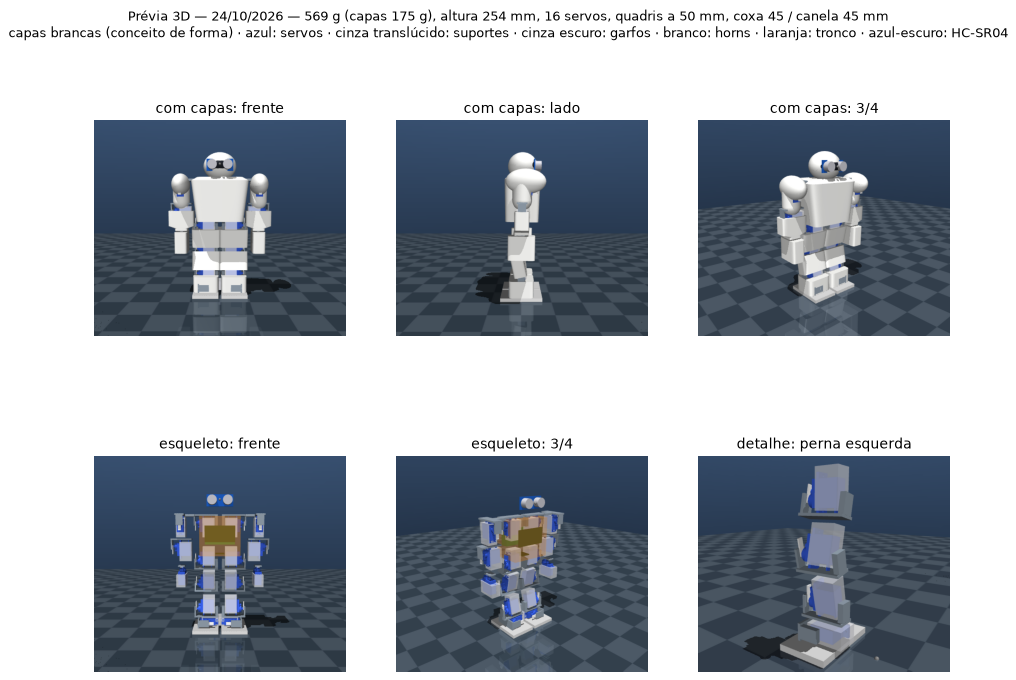
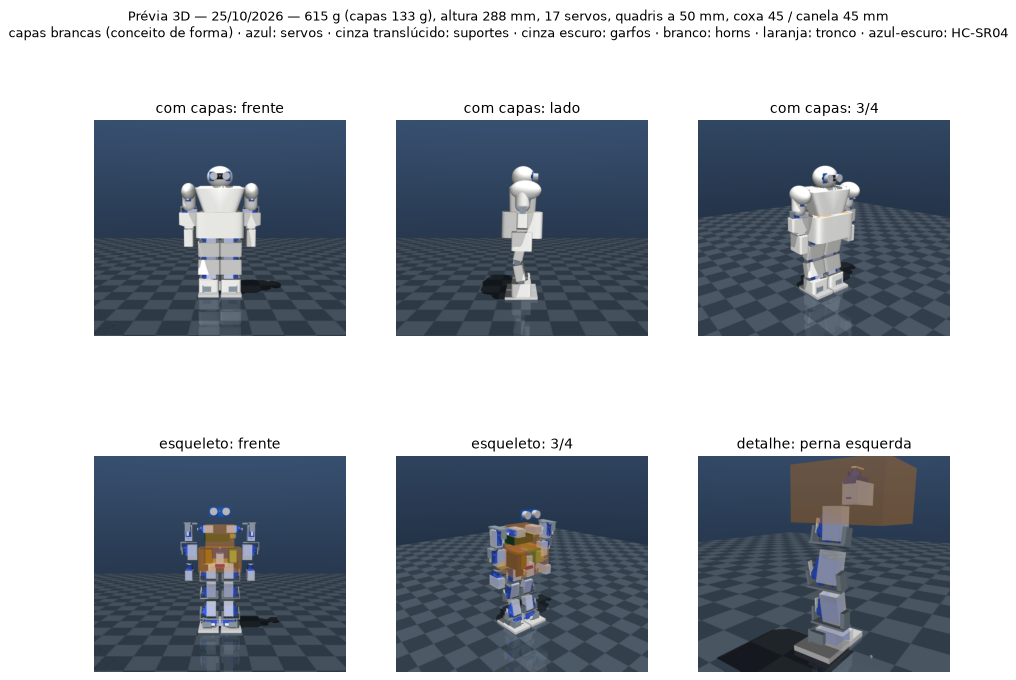
feat: V torso (variant B), re-simulated numbers and refreshed preview
- Torso 50 x 62 x 50 mm with 96 mm shoulders: cover chest/waist 1.52, in the
  range of the user's reference silhouettes; ESP32 re-placed in TORSO_LAYOUT
- 615 g, 288 mm: one-leg stance 66 %, rise at 1 rad/s knee 79 %; open-loop
  rocking now shifts the weight only with +-9 deg roll, so rocking_test and
  current_budget default to 9 deg
- Docs: new numbers in simulacao.md / arquitetura_corpo.md, stale masses and
  dimensions synced, preview image and history line, correction plan updated

diff --git a/sim/tools/body.py b/sim/tools/body.py
@@ -121,7 +121,7 @@ BODY_PARTS = {
 WIRING_G = {"torso": 3.0, "pelvis": 6.0}   # power leads, I2C, signals (servo cables count with the servos)
 # name -> (centre xyz mm in the torso frame, rotation: rows = torso axes, columns = part length/width/thickness)
 TORSO_LAYOUT = {                 # torso_layout.py --search, 2026-10-25
-    "controle": ((-5.0, 9.0, -10.5), ((0, 1, 0), (1, 0, 0), (0, 0, -1))),
+    "controle": ((-6.0, -6.0, -4.0), ((0, 1, 0), (-1, 0, 0), (0, 0, 1))),
 }
 PELVIS_LAYOUT = {                # torso_layout.py --seat pelvis --search, 2026-10-25
     "pca9685": ((-30.0, -13.0, 11.0), ((0, 0, 1), (-1, 0, 0), (0, -1, 0))),
@@ -166,10 +166,11 @@ class BipedParams:
     # 86 mm at the shoulders, big head -> head / torso / legs = 20 / 31 / 50 % of 254 mm
     # 2026-10-25: 76 deep and 78 at the hips (was 50 x 70) so the electronics fit between the 4 torso
     # servos (sim/tools/torso_layout.py); a mild V from the shoulders down, chosen by the user
-    # 2026-10-25: 50 x 78 x 45 once the electronics went to the pelvis (only the ESP32 and the shoulder
-    # servos stay); the V shape is still open (docs/plano_correcoes_tronco.md 0.2)
-    torso_size_mm: tuple = (50.0, 78.0, 45.0)
-    torso_top_width_mm: float = 86.0  # frame width at the shoulders
+    # 2026-10-25 (user, variant B): V torso — 62 at the waist, 96 at the shoulders, 50 tall: cover chest
+    # / waist = 1.52 (the user's reference silhouettes: 1.5-2.1); only the ESP32 and the shoulder servos
+    # ride inside (the electronics went to the pelvis); 50 tall is the least where the ESP32 fits
+    torso_size_mm: tuple = (50.0, 62.0, 50.0)
+    torso_top_width_mm: float = 96.0  # frame width at the shoulders
     shoulder_pitch_body: str = "front"  # shoulder pitch servo body lies "back" / "front" / "down" from its shaft
     torso_struct_g_per_cm2: float = 25.0 / 178.0   # frame plates: 25 g on a 50 x 70 x 45 mm frame (scaled by area)
 

diff --git a/sim/tools/current_budget.py b/sim/tools/current_budget.py
@@ -86,7 +86,7 @@ def stats(load: np.ndarray, dt: float, n: int, i_stall: float):
 def main():
     ap = argparse.ArgumentParser(description=__doc__, formatter_class=argparse.RawDescriptionHelpFormatter)
     ap.add_argument("--model", default="f1")
-    ap.add_argument("--tilt", type=float, default=12.0, help="ankle roll amplitude while rocking, degrees")
+    ap.add_argument("--tilt", type=float, default=9.0, help="ankle roll amplitude while rocking, degrees")
     args = ap.parse_args()
     m = mujoco.MjModel.from_xml_path(str(MODELS.get(args.model, args.model)))
     n, dt = m.nu, m.opt.timestep
@@ -104,7 +104,7 @@ def main():
               + "   ".join(" / ".join(f"{c[k]:4.1f}" for c in cols) for k in range(3)))
     print("\n  carga = soma de |torque| / stall nos servos, no pico (quantos servos travados equivale)")
     print("\nNÃO SIMULADO (conta):")
-    for name, servos, amps in (("ligar: os 16 vão à 1ª posição juntos", n, I_STALL_A),
+    for name, servos, amps in ((f"ligar: os {n} vão à 1ª posição juntos", n, I_STALL_A),
                                ("queda ou trava: as 8 juntas da perna no stall", 8, I_STALL_A),
                                ("gesto: 8 servos do braço movendo juntos, sem carga", 8, (I_MOVE_A,) * 3)):
         total = [servos * a + (n - servos) * I_IDLE_A for a in amps]

diff --git a/sim/tools/rocking_test.py b/sim/tools/rocking_test.py
@@ -1,6 +1,6 @@
 """Lateral rocking test: shift the body from one foot to the other at walking pace (open loop).
 
-    .venv/bin/python sim/tools/rocking_test.py [--model f1] [--tilt 12] [--cycles 4] [--arm 60]
+    .venv/bin/python sim/tools/rocking_test.py [--model f1] [--tilt 9] [--cycles 4] [--arm 60]
 
 With no hip roll, the weight moves sideways by tilting the whole body over the stance foot with
 both ankle rolls (feet kept parallel to the floor). One cycle = shift onto the left foot, lift and
@@ -88,7 +88,7 @@ def run(m, period: float, roll_max: float, cycles: int, arm: float = 0.0, arm_si
 def main():
     ap = argparse.ArgumentParser(description=__doc__, formatter_class=argparse.RawDescriptionHelpFormatter)
     ap.add_argument("--model", default="f1")
-    ap.add_argument("--tilt", type=float, default=12.0, help="ankle roll amplitude, degrees")
+    ap.add_argument("--tilt", type=float, default=9.0, help="ankle roll amplitude, degrees (9: the 615 g robot shifts and lifts the foot)")
     ap.add_argument("--arm", type=float, default=0.0, help="arm opening, degrees")
     ap.add_argument("--arm-side", choices=("free", "stance"), default="free", help="which arm opens")
     ap.add_argument("--cycles", type=int, default=4)

diff --git a/docs/plano_correcoes_tronco.md b/docs/plano_correcoes_tronco.md
@@ -45,8 +45,7 @@ depois espera por elas. Ao terminar, os itens que sobrarem viram linhas no [back
 - [x] Decidir o regulador e o fusível que acompanha — 25/10: D24V150F5 nos servos, D24V10F5 na lógica, fusível 7,5 A retardado **(você)**
 - [x] Registrar a decisão com o motivo: `lista_materiais.md`, `body.py` (`TORSO_PARTS["regulador"]`:
       medidas, massa, fonte) e backlog §1 **(Claude)**
-- [ ] Confirmar na bancada da F3 a corrente real de stall do clone. Se passar da margem, voltar a esta
-      seção **(você)**
+- [x] ~~Confirmar na bancada da F3 a corrente real de stall do clone~~ → movido para o backlog (F3), depende de hardware **(você)**
 
 ### 0.2 Tronco em V suave (silhueta masculina)
 
@@ -54,7 +53,7 @@ depois espera por elas. Ao terminar, os itens que sobrarem viram linhas no [back
       (`docs/img/silhueta01–06.png`, medidas em 25/10; ver abaixo) **(Claude)**
 
 **Métrica (25/10).** Vista de frente, robô de pé, com as capas. Medida por renderização de
-segmentação, quase ortográfica (o script vai para `sim/tools/` na etapa das variantes). Larguras:
+segmentação, quase ortográfica; nas variantes, calculada direto das formas das capas (`body.shells`). Larguras:
 
 - **ombros:** largura externa total na altura dos ombros (ombreiras e braços);
 - **peito:** capa do tronco na altura das axilas, sem os braços;
@@ -82,11 +81,11 @@ não vai para o repositório porque as referências têm marca d'água).
 
 Todas as referências são de frente: o perfil lateral (peito ÷ barriga) não tem referência e fica a
 critério visual.
-- [ ] Gerar 3 ou 4 variantes renderizadas de frente e de lado, centradas em afinar a cintura (M1 ≥ 1,5):
+- [x] Gerar 3 ou 4 variantes renderizadas de frente e de lado — 25/10, com o tronco novo (só o ESP32 dentro). O ESP32 só cabe com cintura fina se o peito alargar (base 62, ombros 96) e o tronco tiver ≥ 50 mm; variantes A (hoje), B (V, 50 mm), C (V, 55 mm), D (V, 65 mm). Pedido original:
       cintura fina com o tronco mais fundo ou mais alto, e peito um pouco mais largo com cintura média. Para cada uma: se a eletrônica cabe
       (`torso_layout.py --search`), massa, picos do `rocking_test` e folga do braço até a perna **(Claude)**
-- [ ] Escolher a variante **(você)**
-- [ ] Aplicar em `BipedParams`. Se a escolhida afinar a profundidade de cima para baixo, isso precisa
+- [x] Escolher a variante — 25/10: **B** (V, tronco 50 mm) **(você)**
+- [x] Aplicar em `BipedParams` — feito em 25/10 (tronco 50 × 62 × 50, ombros 96; ESP32 recolocado no `TORSO_LAYOUT`). Se a escolhida afinar a profundidade de cima para baixo, isso precisa
       de um parâmetro novo no `body.py` (hoje só a largura afina) **(Claude)**
 
 Limites que as variantes têm de respeitar:
@@ -99,7 +98,7 @@ Limites que as variantes têm de respeitar:
 
 ### 0.3 Posição da bateria
 
-- [ ] ~~Tronco~~ Quadril: escrever a preferência da bateria em `score()` (a bateria foi para o quadril em 25/10; vale para o layout do quadril) (`sim/tools/torso_layout.py`, `TODO(human)`),
+- [x] ~~Tronco~~ Quadril: escrever a preferência da bateria em `score()` — 25/10: atrás e embaixo (`2·x + z`), pela gaveta traseira que você decidiu; o layout do quadril já usa (a bateria foi para o quadril em 25/10; vale para o layout do quadril) (`sim/tools/torso_layout.py`, `TODO(human)`),
       já com as medidas da 0.2 **(você)**. Trade-offs:
       - **Bateria baixa:** centro de massa mais baixo, menos torque no tornozelo roll e no joelho ao
         inclinar. Em compensação o pêndulo fica mais rápido, e o acesso ao conector de carga é pior.
@@ -122,30 +121,33 @@ Limites que as variantes têm de respeitar:
 
 ## Fase 2 — Re-simular e registrar
 
-- [ ] Rodar de novo `build_biped.py`, `f1_experiments.py`, `rocking_test.py` e `f2_sweep.py --quick`
+- [x] Rodar de novo `build_biped.py`, `f1_experiments.py`, `rocking_test.py` e `f2_sweep.py --quick` — 25/10; `--tilt` padrão passou a 9° (12° derruba o robô de 615 g)
       com o tronco final, e conferir que o `f1_biped.xml` regenerado é o que vai no commit **(Claude)**
-- [ ] Registrar os números novos (massa, picos, inclinação) em `simulacao.md` e
+- [x] Registrar os números novos (massa, picos, inclinação) em `simulacao.md` e
       `arquitetura_corpo.md`, com a comparação antes/depois **(Claude)**
 - [ ] Rever o gatilho dos 8 DOF com os números novos: a inclinação a 1 passo/s passou de 20°, mas o
       ritmo de projeto é ~0,67 passo/s. Decidir se o gatilho vale para o ritmo de projeto ou para
       1 passo/s, e escrever isso no backlog **(juntos)**
+      Recomendação (25/10): o gatilho vale no ritmo de projeto (0,67 passo/s). Lá a inclinação é 14° e o
+      tornozelo roll 56 %, então não dispara; o limite agora é o joelho (79 %), não o roll.
 
 ## Fase 3 — Prévia e documentos
 
-- [ ] `make preview`, linha nova no histórico de `previa.md` e imagem commitada **(Claude)**
-- [ ] Sincronizar os números defasados **(Claude)**:
+- [x] `make preview`, linha nova no histórico de `previa.md` e imagem — 25/10 **(Claude)**
+- [x] Sincronizar os números defasados (25/10) **(Claude)**:
       - "569 g": `CLAUDE.md`, `lista_materiais.md`, `arquitetura_perna.md`, `tutorial_mujoco.md`
-      - "12 juntas" no backlog (são 16)
-      - "quadris 45 mm, pé 40 × 70" em `backlog.md` (F2) e `simulacao.md` (agora 50 mm e 45 × 70,
-        revistos pelo conceito do suporte)
-      - "UBEC" em `arquitetura_corpo.md`, no backlog (§1 e §5) e no `CLAUDE.md`, conforme a decisão 0.1
+      - ~~"12 juntas" no backlog~~ (feito em 25/10)
+      - ~~"quadris 45 mm, pé 40 × 70" em `backlog.md` e `simulacao.md`~~ (feito em 25/10)
+      - ~~"UBEC" em `arquitetura_corpo.md`, backlog e `CLAUDE.md`~~ (feito com a decisão 0.1)
       - tamanho do tronco e V no `CLAUDE.md` e em `arquitetura_corpo.md`
 - [ ] Backlog §3.1 "Orçamento de massa das capas": decidir se o cálculo pela forma (`body.py`) fecha o
       item ou se ele só fecha na F4, com a massa das peças reais **(juntos)**
+      Recomendação (25/10): o orçamento pela forma (133 g com 0,8 mm) vale como orçamento; o item fecha na F4,
+      conferindo na balança.
 
 ## Fase 4 — Entrega
 
-- [ ] Revisão do diff inteiro (código + docs) **(Claude)**
+- [x] Revisão do diff inteiro (código + docs) — 25/10 **(Claude)**
 - [ ] Commit e PR do branch `feat/torso-packaging`, depois do seu OK **(Claude)**
 
 ## Em paralelo — caminho crítico da mecânica (não depende deste plano)

diff --git a/CLAUDE.md b/CLAUDE.md
@@ -4,7 +4,7 @@ This file provides guidance to Claude Code (claude.ai/code) when working with co
 
 ## Project
 
-Learning-focused biped robot: SG90-clone servos, ESP32, MPU-6050 for balance. 16 servos: 8 in the legs + 4 per arm (shoulder pitch, shoulder roll, elbow, wrist rotation; fixed hand; each servo inside the segment it moves; PWM through a PCA9685), plus a fixed head with an HC-SR04 ultrasonic and a 10 g reserve for a future camera (separate ESP32-CAM); Body split 2026-10-25 (user): a pelvis (2 hip pitch servos + the waist yaw servo, battery, regulators, IMU, a PCA9685 for the 8 leg servos + waist) and a torso turning ±45° on it (waist yaw, 17th SG90; the ESP32 drives the 8 arm servos directly by LEDC); only the servo rail, logic 5 V and I2C cross the waist — `body.BODY_PARTS` seats. LiPo 2S ~55 g; servo rail on a Pololu D24V150F5 (5 V, 15 A) and logic (ESP32, PCA9685 logic, sensors) on a separate D24V10F5 straight from the battery, 7.5 A slow-blow fuse, staggered servo power-on in firmware — user decision 2026-10-25, budget in `docs/alimentacao.md`. Proportions approved 2026-10-24 (UBTECH Alpha 1 look, SG90 everywhere): torso 68 mm tall, 86 mm at the shoulders, head 52 × 58 × 48 mm, covers 1.2 mm (cover wall cut to 0.8 mm on 2026-10-25 to lower the torques) → 254 mm tall; with the 4-servo arms and nearly square covers (`cover_corner_n` = 8, chosen by the user) 569 g (175 g covers), shoulders 18.2 cm; comfortable pace up to ~0.67 step/s, rise at ≤ 0.7 rad/s; 1 step/s fails on the ankle roll. Per leg: hip pitch, knee pitch, ankle pitch, ankle roll (no hip yaw — turning only by asymmetric steps; no hip roll, kept by decision on 2026-10-24 — lateral weight shift = tilting the whole body ~18°, rocking gait). Approved leg dimensions (2026-10-24, revised by the bracket concept): hips 50 mm apart (real leg is ~42 mm wide along the pitch axes), thigh = shin = 45 mm between axes, ankle pitch→roll 22 mm, foot 45 × 70 mm, covers target 35 g / limit 50 g total — `BipedParams` defaults and `docs/arquitetura_perna.md`. Hardware/BOM status lives in `docs/lista_materiais.md` (user ticks what they own). Docs are pt-BR; code, identifiers and commits in English.
+Learning-focused biped robot: SG90-clone servos, ESP32, MPU-6050 for balance. 17 servos: 8 in the legs + 4 per arm + 1 waist yaw; arms: (shoulder pitch, shoulder roll, elbow, wrist rotation; fixed hand; each servo inside the segment it moves), plus a fixed head with an HC-SR04 ultrasonic and a 10 g reserve for a future camera (separate ESP32-CAM); Body split 2026-10-25 (user): a pelvis (2 hip pitch servos + the waist yaw servo, battery, regulators, IMU, a PCA9685 for the 8 leg servos + waist) and a torso turning ±45° on it (waist yaw, 17th SG90; the ESP32 drives the 8 arm servos directly by LEDC); only the servo rail, logic 5 V and I2C cross the waist — `body.BODY_PARTS` seats. LiPo 2S ~55 g; servo rail on a Pololu D24V150F5 (5 V, 15 A) and logic (ESP32, PCA9685 logic, sensors) on a separate D24V10F5 straight from the battery, 7.5 A slow-blow fuse, staggered servo power-on in firmware — user decision 2026-10-25, budget in `docs/alimentacao.md`. Proportions approved 2026-10-24 (UBTECH Alpha 1 look, SG90 everywhere): torso 68 mm tall, 86 mm at the shoulders, head 52 × 58 × 48 mm, nearly square covers (`cover_corner_n` = 8, chosen by the user). Revised 2026-10-25 (user): cover wall 0.8 mm, V torso 50 × 62 × 50 mm with 96 mm shoulders (cover chest/waist 1.52, from the user's reference silhouettes), pelvis 76 × 92 × 52 mm → **615 g, 288 mm** (133 g covers); one-leg stance 66 %, rise at 1 rad/s knee 79 %, open-loop rocking only with ±9° roll (knee ~79 %) — the knee is now the limit; the F2 physics estimate of the weight shift is over 100 % (conservative; real number with the F6 balance controller). Per leg: hip pitch, knee pitch, ankle pitch, ankle roll (no hip yaw — turning only by asymmetric steps; no hip roll, kept by decision on 2026-10-24 — lateral weight shift = tilting the whole body ~18°, rocking gait). Approved leg dimensions (2026-10-24, revised by the bracket concept): hips 50 mm apart (real leg is ~42 mm wide along the pitch axes), thigh = shin = 45 mm between axes, ankle pitch→roll 22 mm, foot 45 × 70 mm, covers target 35 g / limit 50 g total — `BipedParams` defaults and `docs/arquitetura_perna.md`. Hardware/BOM status lives in `docs/lista_materiais.md` (user ticks what they own). Docs are pt-BR; code, identifiers and commits in English.
 
 **CAD workflow is hybrid:** reference models of purchased parts (servo, bearings, screws) are generated by Python scripts here; **structural parts (brackets, legs, torso) are modelled by the user by hand in the FreeCAD GUI** — guide and review those, don't script them unless asked.
 

diff --git a/docs/backlog.md b/docs/backlog.md
@@ -25,7 +25,7 @@ Documentos de apoio: [corpo inteiro](arquitetura_corpo.md) · [prévia 3D](previ
 
 ## Decisão agora
 
-- [x] Servos: **SG90 em todas as 12 juntas** — decidido em 24/10 **(você)**
+- [x] Servos: **SG90 em todas as juntas** — decidido em 24/10 (hoje 17: 8 nas pernas, 8 nos braços, 1 na cintura) **(você)**
 - [x] Proporção do corpo: tronco 68 mm, ombros 86 mm, cabeça grande, parede 1,2 mm — decidido em 24/10 ([arquitetura_corpo.md](arquitetura_corpo.md)) **(você)**
 - [x] Aplicada em `sim/tools/body.py`; prévia, F1 e documentos refeitos: 254 mm, 518 g, ritmo com folga até ~0,7 passo/s **(Claude)**
 - [x] Braço com cotovelo e punho que gira, mão fixa (4 SG90 por braço, 16 no total) — decidido em 24/10 **(você)**; cadeia modelada pelas marcações das 8 cabeças, simulado: 573 g, ritmo até ~0,67 passo/s ([arquitetura_corpo.md](arquitetura_corpo.md)) **(Claude)**
@@ -77,11 +77,12 @@ Fases detalhadas em [simulacao.md](simulacao.md). Cada fase só começa quando o
   - [ ] Rever a decisão dos 8 DOF se o tornozelo roll passar de ~70 % do SG90 no ritmo desejado, ou se a inclinação continuar acima de ~20° depois de afinar o quadril (F2) **(juntos)**
 - **F2 — Varredura na GPU**
   - [x] Varrer coxa/canela × largura do quadril × peso das capas → torque vs SG90, parado e em movimento — 360 robôs em `sim/tools/f2_sweep.py` **(Claude)**
-  - [x] Escolher as medidas da perna — **aprovadas em 24/10:** quadris 45 mm, coxa 45, canela 45, pé 40 × 70, capas meta 35 g / limite 50 g (`arquitetura_perna.md`) **(juntos)**
+  - [x] Escolher as medidas da perna — **aprovadas em 24/10:** quadris 45 mm, coxa 45, canela 45, pé 40 × 70, capas meta 35 g / limite 50 g (`arquitetura_perna.md`); revistas pelo conceito do suporte para quadris 50 mm e pé 45 × 70 **(juntos)**
 - **F3 — Modelo do servo SG90**
   - [ ] Montar a bancada: ESP32 + INA219 + servo **(você)**
   - [ ] Firmware da bancada: degrau de posição, gravar posição e corrente **(juntos)**
   - [ ] Medir os 8 servos (+ reservas) e escolher os melhores para joelhos/tornozelos **(você)**
+  - [ ] Medir a corrente de stall real do clone e confirmar o regulador D24V150F5 ([alimentacao.md](alimentacao.md)); se passar bem de 0,75 A, rever a escolha **(você)**
   - [ ] Modelo do servo (torque × velocidade, folga, zona morta, atraso) calibrado **(Claude)**
   - [ ] Simular degraus de posição sem rampa com o servo calibrado (o SG90 satura e puxa o stall): pico de torque e de corrente; refazer `current_budget.py` e conferir a margem do D24V150F5 ([alimentacao.md](alimentacao.md)) **(Claude)**
 - **F4 — Ponte CAD → simulação**

diff --git a/docs/simulacao.md b/docs/simulacao.md
@@ -100,7 +100,7 @@ Conclusões:
 - **As capas pesam na conta:** com capas pesadas (100 g em vez de 50 g, 409 g no total) nenhuma
   combinação a 45 mm passa a 1 passo/s (74–77 %); todas continuam passando a 0,5 passo/s.
 - **Medidas aprovadas (24/10):** quadris 45 mm, coxa = canela = 45 mm, pé 40 × 70 mm, capas
-  com meta de 35 g e limite de 50 g.
+  com meta de 35 g e limite de 50 g. Revistas pelo conceito do suporte: quadris 50 mm, pé 45 × 70 mm.
 - **Revisão no conceito do suporte (24/10):** com as peças reais a perna tem ~42 mm de largura,
   então os quadris foram para **50 mm** (pé 45 mm) e o tornozelo pitch→roll de 12 para **22 mm**.
   A estimativa física conservadora da tabela acima marca 50 mm como reprovado a 1 passo/s (71–80 %),
@@ -116,6 +116,13 @@ Conclusões:
   levantar a 1 rad/s com joelho a 67 %. Ritmo com folga até ~0,7 passo/s.
 - **Braços com cotovelo e punho (24/10):** 16 servos, 573 g (569 g com as capas quase retas, mesmos picos). A roll ±12°: tornozelo roll 68 / 64 / 87 % e
   joelho 50 / 46 / 71 % a 0,5 / 0,67 / 1 passo/s; levantar a 1 rad/s com joelho a 72 %. Ritmo até ~0,67 passo/s.
+- **Quadril, cintura e V (25/10):** 17 servos (cintura gira o tronco ±45°), eletrônica no quadril, ESP32
+  no tronco, capas de 0,8 mm, tronco em V (variante B): **615 g, 288 mm**. O balanço sem controle só
+  transfere o peso com roll ±9° (±12° derruba o robô mais alto): tornozelo roll 49 / 56 / 60 %, joelho
+  **78 / 79 / 73 %**, inclinação 13–15°, pé sobe 11–15 mm a 0,5 / 0,67 / 1 passo/s. Numa perna: só a −10°
+  (joelho 66 %). Levantar a 1 rad/s: joelho 79 %. O joelho passou a ser o limite; a estimativa física
+  da troca de pé (F2) dá 110 % a 0,67 passo/s — conservadora, o número real vem com o controle da F6.
+  Corrente do trilho: pico 1,6–2,1 A no balanço a 0,67 passo/s.
 
  usar o que existe, medir, só então criar
 

diff --git a/docs/arquitetura_corpo.md b/docs/arquitetura_corpo.md
@@ -130,3 +130,22 @@ Com as capas mais justas, o garfo do ombro pitch encosta 1,7 mm para fora da cap
 junta (fica à mostra como as outras juntas).
 
 **Ritmo com SG90 em tudo: até ~0,67 passo/s; levantar a ≤ 0,7 rad/s.** 1 passo/s reprova no tornozelo roll.
+
+## Quadril, cintura e tronco em V (25/10)
+
+Decisões do dia (você):
+- **Rotação da cintura:** o tronco gira ±45° sobre o quadril. É o 17º SG90, preso no quadril em cima dos dois do quadril pitch.
+- **Divisão da eletrônica:** no quadril, bateria (com gaveta pela traseira), reguladores, MPU e o PCA9685 das pernas. No tronco, o ESP32, que gera o PWM dos braços. Pela cintura passam só 5 fios.
+- **Capas de 0,8 mm.**
+- **Tronco em V (variante B).**
+
+| | Antes (manhã) | Agora |
+|---|---|---|
+| Servos | 16 | 17 |
+| Massa / altura | 620 g / 254 mm | **615 g / 288 mm** |
+| Tronco | 76 × 78 × 68 mm, ombros 86 | 50 × 62 × 50 mm, ombros 96 (V 1,52) |
+| Quadril | dentro do tronco | 76 × 92 × 52 mm (o menor em que tudo cabe) |
+| Numa perna / levantar 1 rad/s (joelho) | — / 72 % | 66 % / 79 % |
+
+As variantes do V e os números estão em [plano_correcoes_tronco.md](plano_correcoes_tronco.md) (0.2) e em [simulacao.md](simulacao.md).
+

diff --git a/docs/previa.md b/docs/previa.md
@@ -60,3 +60,4 @@ medida, uma peça ou o conceito do suporte — e registrar a mudança no histór
 | 24/10/2026 | Proporção estilo Alpha 1, SG90 em tudo: tronco 68 mm, ombros 86 mm (ombro pitch com 623ZZ), cabeça 52 × 58 × 48 mm, parede 1,2 mm → 254 mm, 518 g (capas 164 g), cabeça / tronco / pernas 20 / 31 / 50 % |
 | 24/10/2026 | Braços com cotovelo (servo no antebraço) e punho que gira (servo na mão), mão fixa → 16 servos; marcações das 8 cabeças; 573 g (capas 179 g), ombros 19,8 cm |
 | 24/10/2026 | Capas quase retas (seção com canto pouco arredondado): ombros 18,2 cm, 569 g (capas 175 g) |
+| 25/10/2026 | Quadril separado do tronco com a cintura girando ±45° (17º SG90 no quadril); eletrônica no quadril (gaveta da bateria atrás), ESP32 no tronco; capas de 0,8 mm; tronco em V (50 × 62 × 50 mm, ombros 96, peito/cintura 1,52); quadril 76 × 92 × 52 mm → 288 mm, 615 g (capas 133 g) |

diff --git a/docs/arquitetura_perna.md b/docs/arquitetura_perna.md
@@ -97,8 +97,8 @@ Se 1 ou 2 falhar, a decisão volta para discussão.
 | Pé | **45 × 70 mm** | Largura = quadris − 5 mm, para os pés não se tocarem |
 | Massa das capas | **meta 35 g, limite 50 g no total** | Validado a 1 passo/s com 50 g (tronco 20 g + 15 g por perna) |
 
-Altura do centro do tronco em pé: ~158 mm. Massa total estimada: 359 g só com as pernas; **569 g**
-com cabeça, braços de 4 servos, LiPo de 55 g e capas no corpo inteiro (proporção aprovada em 24/10, ver
+Altura do centro do tronco em pé: ~158 mm. Massa total estimada: 359 g só com as pernas; **615 g**
+com cabeça, braços de 4 servos, cintura giratória, LiPo de 55 g e capas de 0,8 mm (revisão de 25/10, ver
 [arquitetura_corpo.md](arquitetura_corpo.md)). Centro do tronco em pé: ~170 mm.
 
 Robô atual na simulação (aberto, sem controle de equilíbrio):

diff --git a/docs/tutorial_mujoco.md b/docs/tutorial_mujoco.md
@@ -201,7 +201,7 @@ Painel da esquerda → **Rendering** → ligue **Contact Point** e **Contact For
 ## Passo 8 — O robô completo (F1)
 
 Até aqui foi um robô de mentira, com uma perna só. Agora o modelo é o **robô inteiro**, ainda
-feito de caixinhas, mas com as massas estimadas das peças de verdade (**569 g** no total):
+feito de caixinhas, mas com as massas estimadas das peças de verdade (**615 g** no total; eram 569 g quando o tutorial foi escrito):
 
 - **caixa laranja** = tronco (bateria, ESP32, MPU-6050, regulador e capa);
 - **caixinhas azuis** = os 16 servos SG90 (8 nas pernas, 8 nos braços), cada um no lugar onde vai ficar;

diff --git a/docs/lista_materiais.md b/docs/lista_materiais.md
@@ -2,8 +2,8 @@
 
 Marque `[x]` no que já tem. Itens **(opcional)** não bloqueiam o projeto.
 
-Massa total: **569 g** (proporção estilo Alpha, 254 mm de altura, 16 servos, capas quase retas de 175 g
-calculadas pela forma — 24/10). **SG90 em todas as juntas** (decisão de
+Massa total: **615 g** (288 mm de altura, 17 servos com a cintura, capas de 0,8 mm de 133 g calculadas
+pela forma, tronco em V — 25/10). **SG90 em todas as juntas** (decisão de
 24/10): joelho e tornozelo roll ficam no limite a 1 passo/s e com folga a 0,5 passo/s — ver
 [arquitetura_corpo.md](arquitetura_corpo.md).
 
